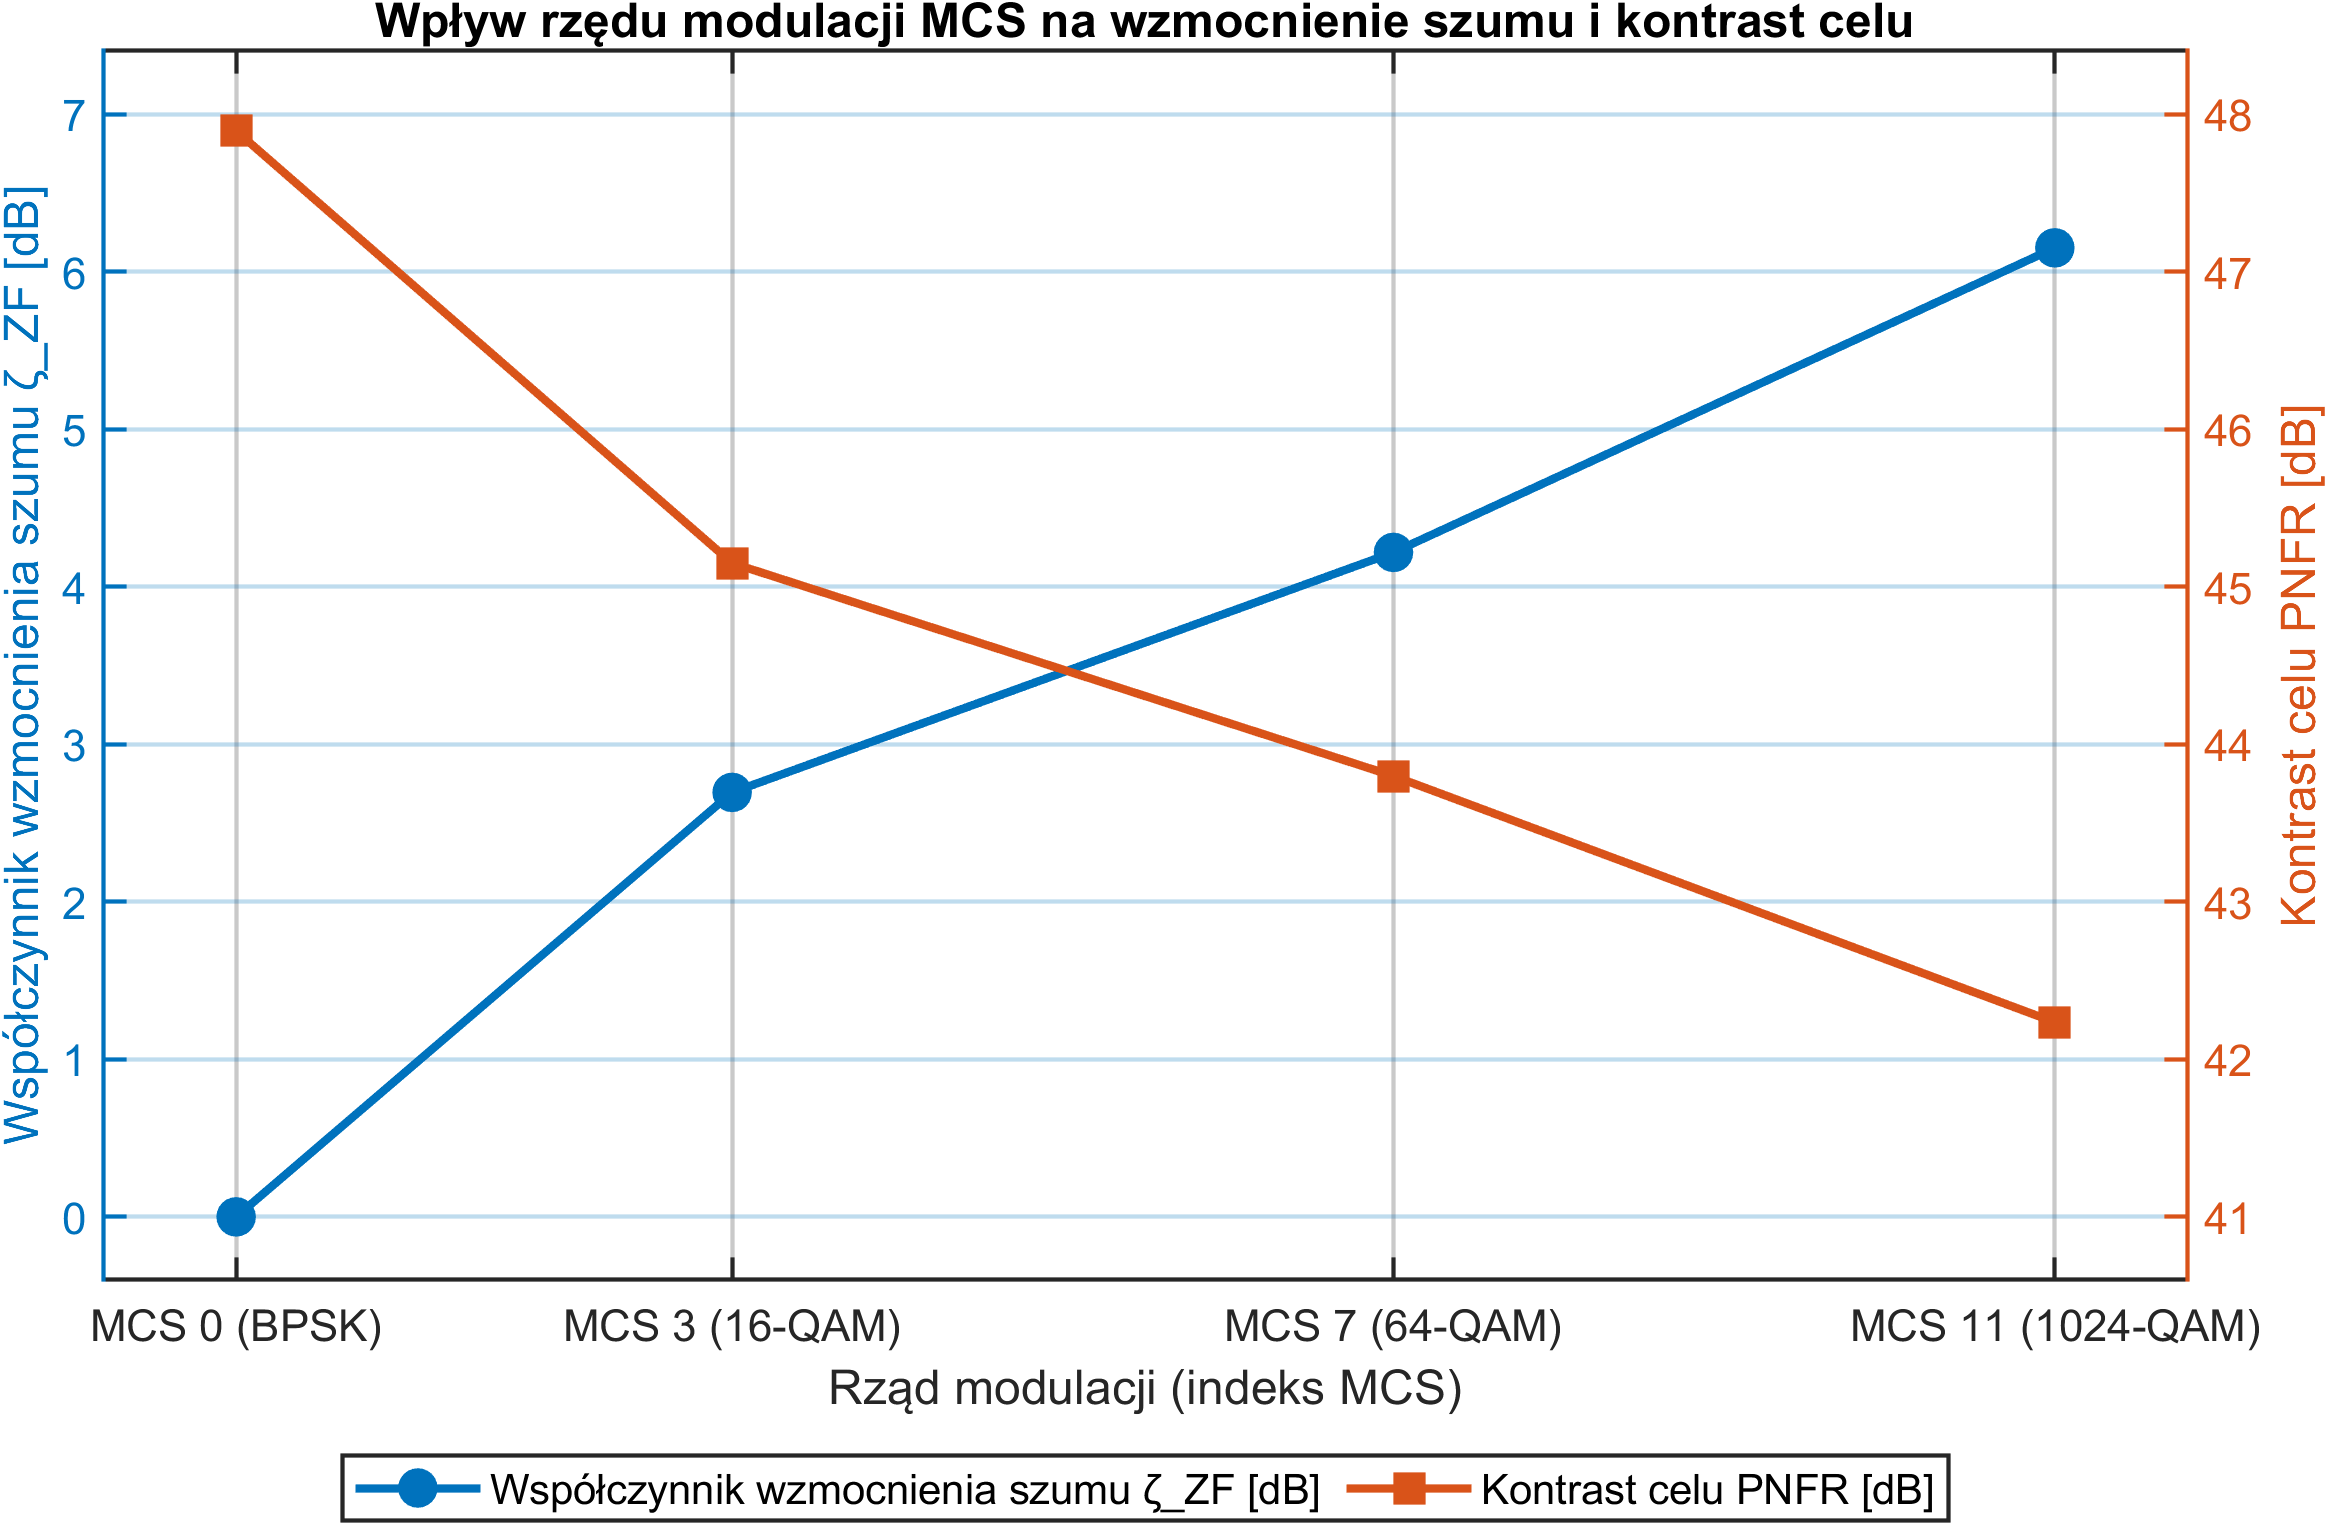
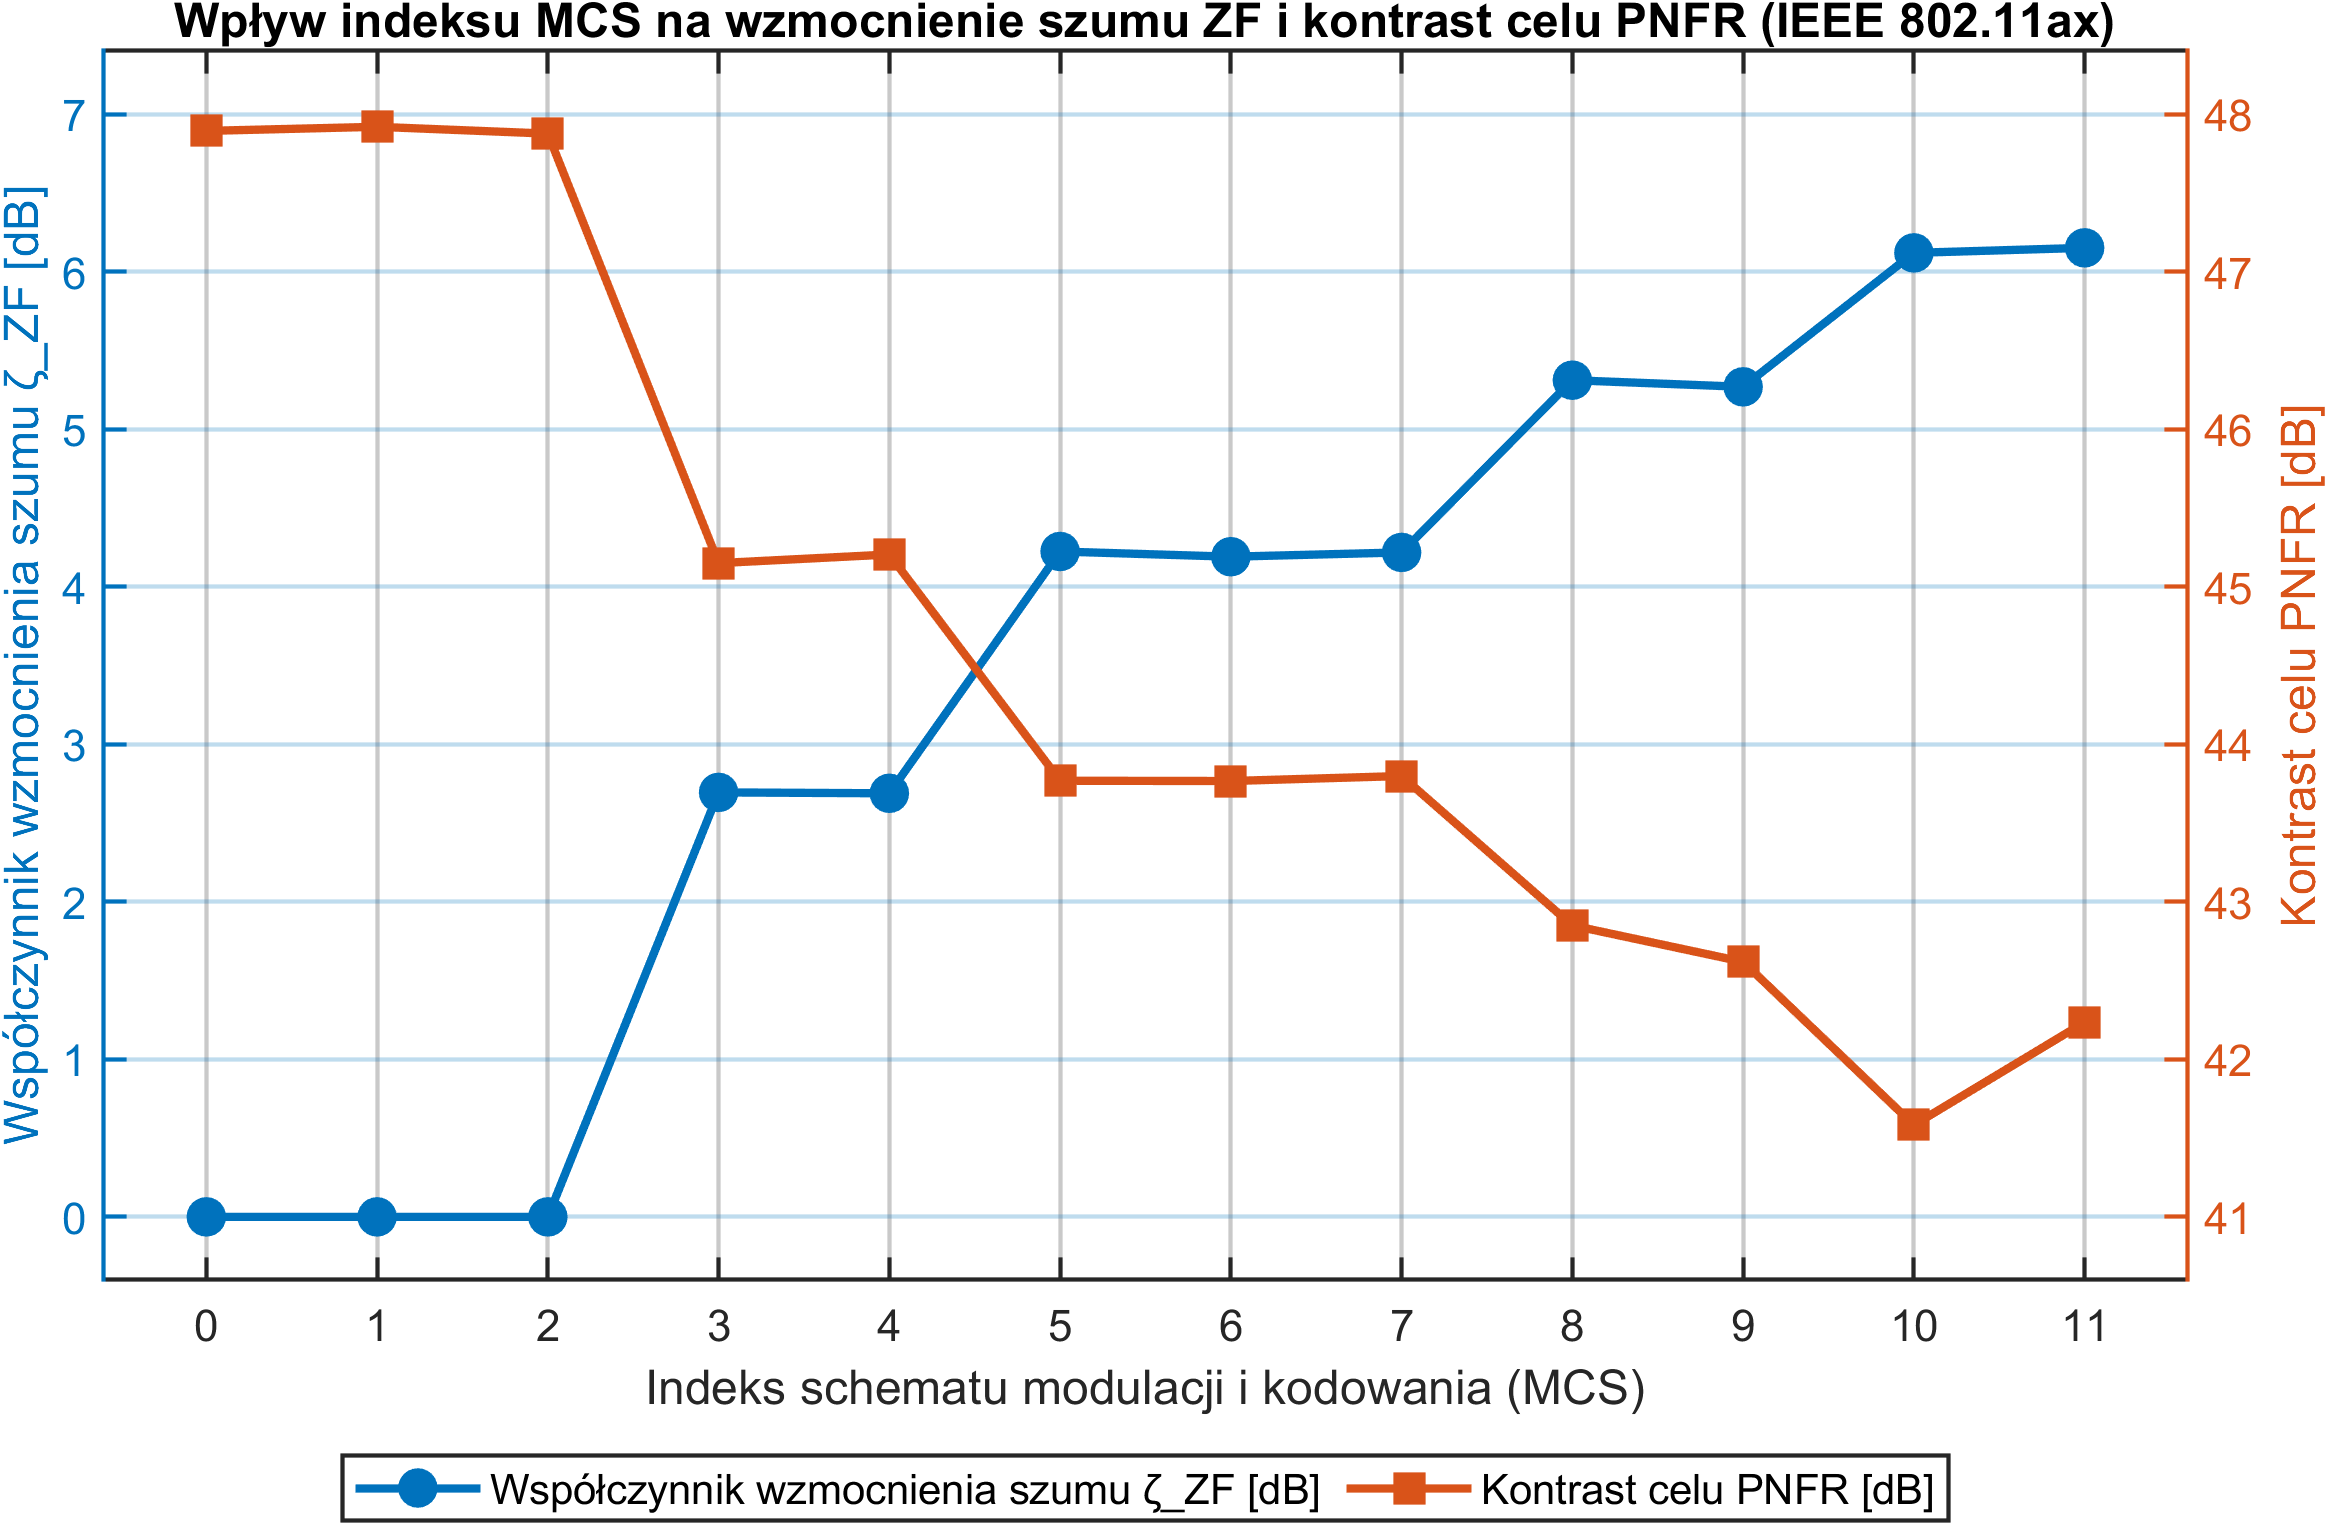
zwiekszenie rozdzielczosci wykresu

diff --git a/scripts/figures/ch4_sim/gen_fig_4_3_noise_enhancement.m b/scripts/figures/ch4_sim/gen_fig_4_3_noise_enhancement.m
@@ -4,9 +4,9 @@ function gen_fig_4_3_noise_enhancement()
 % Figure 4.3 for Chapter 4 of the thesis:
 %   Dual Y-axis comparison of the Zero-Forcing noise enhancement factor
 %   zeta_ZF = E[|X|^2]*E[1/|X|^2] [dB] and target detection contrast PNFR [dB]
-%   across MCS 0 (BPSK), MCS 3 (16-QAM), MCS 7 (64-QAM), and MCS 11 (1024-QAM)
-%   for IEEE 802.11ax (CBW40, TGax Model-C) with dynamic payload scaling
-%   maintaining a constant frame duration (~3.87 ms, M = 280 OFDM symbols).
+%   across all available MCS 0-11 (BPSK to 1024-QAM) for IEEE 802.11ax
+%   (CBW40, TGax Model-C) with dynamic payload scaling maintaining a constant
+%   frame duration (~3.87 ms, M = 280 OFDM symbols).
 %
 % Output file: thesis/img/ch4_sim/rys_4_3_wzmocnienie_szumu_mcs.png
 
@@ -29,8 +29,7 @@ snr_dB        = 25.0;
 % Moving target scenario in indoor multipath channel (R = 22.5 m, v = +18.0 m/s)
 targets = struct('type', 'car', 'range_m', 22.5, 'velocity_mps', 18.0, 'gain', 0.05);
 
-mcs_list   = [0, 3, 7, 11];
-mcs_labels = {'MCS 0 (BPSK)', 'MCS 3 (16-QAM)', 'MCS 7 (64-QAM)', 'MCS 11 (1024-QAM)'};
+mcs_list   = 0:11;
 
 n_mcs      = numel(mcs_list);
 zeta_zf_dB = zeros(1, n_mcs);
@@ -57,8 +56,8 @@ for i = 1:n_mcs
     r_det = radar_data.axis_range(targets_found(1, 1));
     v_det = radar_data.axis_velocity(targets_found(1, 2));
 
-    fprintf('  [%s] PSDU = %6d B (M = %d) | zeta_ZF = %.2f dB | PNFR = %.2f dB | Det: R = %.2f m, v = %+.2f m/s\n', ...
-        mcs_labels{i}, psdu_vec(i), n_sym_vec(i), zeta_zf_dB(i), pnfr_dB(i), r_det, v_det);
+    fprintf('  [MCS %2d] PSDU = %6d B (M = %d) | zeta_ZF = %.2f dB | PNFR = %.2f dB | Det: R = %.2f m, v = %+.2f m/s\n', ...
+        mcs, psdu_vec(i), n_sym_vec(i), zeta_zf_dB(i), pnfr_dB(i), r_det, v_det);
 end
 
 fprintf('  ZF noise enhancement rise (MCS 0 -> MCS 11): %+.2f dB\n', zeta_zf_dB(end) - zeta_zf_dB(1));
@@ -96,19 +95,42 @@ yticks(41:1:48);
 ax.YColor = color_right;
 
 % X-axis formatting and title
-xlim([-0.8, 11.8]);
+xlim([-0.6, 11.6]);
 xticks(mcs_list);
-xticklabels(mcs_labels);
-xlabel('Rząd modulacji (indeks MCS)', 'FontSize', 11, 'Interpreter', 'none');
-title('Wpływ rzędu modulacji MCS na wzmocnienie szumu i kontrast celu', ...
+xticklabels(string(mcs_list));
+xtickangle(0);
+xlabel('Indeks schematu modulacji i kodowania (MCS)', 'FontSize', 11, 'Interpreter', 'none');
+title('Wpływ indeksu MCS na wzmocnienie szumu ZF i kontrast celu PNFR (IEEE 802.11ax)', ...
     'FontSize', 12, 'FontWeight', 'bold', 'Interpreter', 'none');
+
+% Text annotations indicating modulation groups above the curves
+y_ann = 6.9; % in left axis coordinates
+mod_groups = { ...
+    [0, 0],   'BPSK'; ...
+    [1, 2],   'QPSK'; ...
+    [3, 4],   '16-QAM'; ...
+    [5, 7],   '64-QAM'; ...
+    [8, 9],   '256-QAM'; ...
+    [10, 11], '1024-QAM' ...
+    };
+for g = 1:size(mod_groups, 1)
+    span = mod_groups{g, 1};
+    lbl  = mod_groups{g, 2};
+    x_pos = mean(span);
+    text(x_pos, y_ann, lbl, 'HorizontalAlignment', 'center', ...
+        'FontSize', 8.5, 'FontWeight', 'bold', 'Color', [0.2 0.2 0.2]);
+    if span(1) ~= span(2)
+        line([span(1)-0.35, span(2)+0.35], [y_ann-0.3, y_ann-0.3], ...
+            'Color', [0.4 0.4 0.4], 'LineWidth', 0.8);
+    end
+end
 
 leg = legend([p1, p2], 'Location', 'southoutside', 'NumColumns', 2, ...
     'FontSize', 10, 'Interpreter', 'none');
 leg.Box = 'on';
 
-set(gca, 'FontSize', 10.5, 'LineWidth', 1.0);
-grid on;
+set(gca, 'FontSize', 10.5, 'LineWidth', 1.0, 'Box', 'on');
+grid on; box on;
 set(gca, 'GridAlpha', 0.25);
 
 % 4. Export figure in 300 DPI
